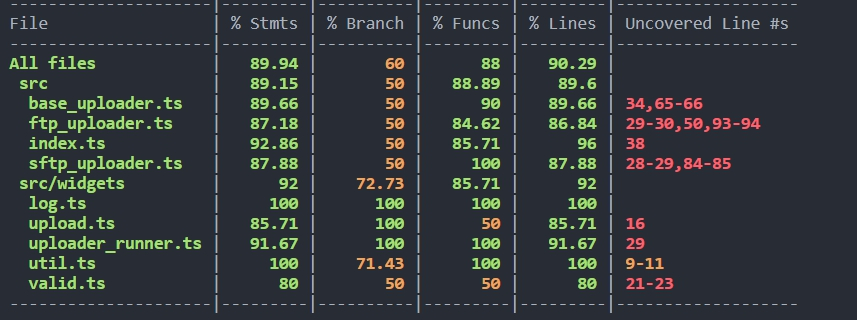
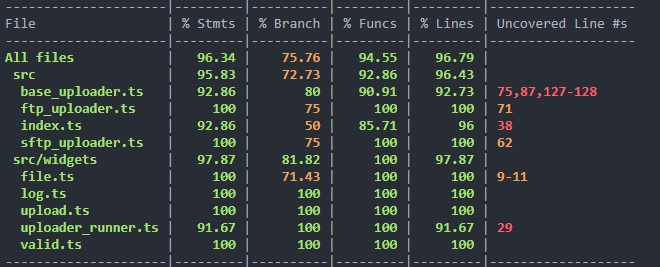
update：完善单测与文档

Changed region(s): [[0.0, 0.0, 0.9394, 0.9888]]

diff --git a/test/widgets/config.ts b/test/widgets/config.ts
@@ -1,12 +1,12 @@
 import { Options, Config } from '../../src/interface/interface';
 
 const ftpConfig: Options = {
-  host: '192.168.0.107',
+  host: 'ftp.dlptest.com',
   port: 21,
-  user: '',
-  password: '',
-  files: ['demo.mkv', 'test', 'package.json'],
-  destRootPath: '/gyh/ftp',
+  user: 'dlpuser@dlptest.com',
+  password: 'eUj8GeW55SvYaswqUyDSm5v6N',
+  files: ['test', 'package.json'],
+  destRootPath: '/',
   parallel: true,
   retry: true
 };
@@ -21,6 +21,11 @@ const retryFtpConfig: Options = {
   parallel: true,
   retry: true,
   retryTimes: 1
+};
+
+const errorConfig: any = {
+  host: '192.168.0.0',
+  port: 21
 };
 
 const sftpConfig: Options = {
@@ -54,4 +59,11 @@ const config: Config = {
   }
 };
 
-export { config, ftpConfig, retryFtpConfig, sftpConfig, retrySftpConfig };
+export {
+  config,
+  ftpConfig,
+  retryFtpConfig,
+  sftpConfig,
+  retrySftpConfig,
+  errorConfig
+};

diff --git a/test/sftp_uploader.test.ts b/test/sftp_uploader.test.ts
@@ -1,5 +1,6 @@
 import { SftpUploader } from '../src/sftp_uploader';
-import { sftpConfig, retrySftpConfig } from './widgets/config';
+import { sftpConfig, retrySftpConfig, errorConfig } from './widgets/config';
+
 describe('Uploader Sftp', () => {
   test('run uploader', async (done) => {
     const mockFn = jest.fn(() => {});
@@ -31,6 +32,13 @@ describe('Uploader Sftp', () => {
     await expect(uploader.connect()).rejects.toThrow();
 
     expect(mockFn.mock.calls.length).toBe(2);
+    done();
+  });
+
+  test('sftp options params error', (done) => {
+    expect(() => {
+      new SftpUploader(errorConfig);
+    }).toThrow();
     done();
   });
 });

diff --git a/test/ftp_uploader.test.ts b/test/ftp_uploader.test.ts
@@ -1,5 +1,5 @@
 import { FtpUploader } from '../src/ftp_uploader';
-import { ftpConfig, retryFtpConfig } from './widgets/config';
+import { ftpConfig, retryFtpConfig, errorConfig } from './widgets/config';
 
 describe('Uploader Ftp', () => {
   test('run uploader', async (done) => {
@@ -32,6 +32,13 @@ describe('Uploader Ftp', () => {
     await expect(uploader.connect()).rejects.toThrow();
 
     expect(mockFn.mock.calls.length).toBe(2);
+    done();
+  });
+
+  test('ftp options params error', (done) => {
+    expect(() => {
+      new FtpUploader(errorConfig);
+    }).toThrow();
     done();
   });
 });

diff --git a/src/base_uploader.ts b/src/base_uploader.ts
@@ -31,9 +31,6 @@ export abstract class BaseUploader extends EventEmitter {
 
   protected abstract upload(filePath: string): Promise<any>;
 
-  // TODO: 补充单测
-  // TODO: 补充注释
-  // TODO: 补充rxjs方法的类型声明
   public async connect(): Promise<void> {
     const retryTimes = this.options.retry ? this.options.retryTimes || 3 : 0;
 

diff --git a/README.md b/README.md
@@ -40,6 +40,23 @@ run({
 })
 ```
 
+## API
+
+```ts
+export interface Options {
+  host: string;
+  port: number;
+  user: string;
+  password: string;
+  files: string[];
+  destRootPath: string;
+  rootPath?: string;
+  parallel?: boolean;
+  retry?: boolean;
+  retryTimes?: number;
+}
+```
+
 ## Dev
 
 ```bash
